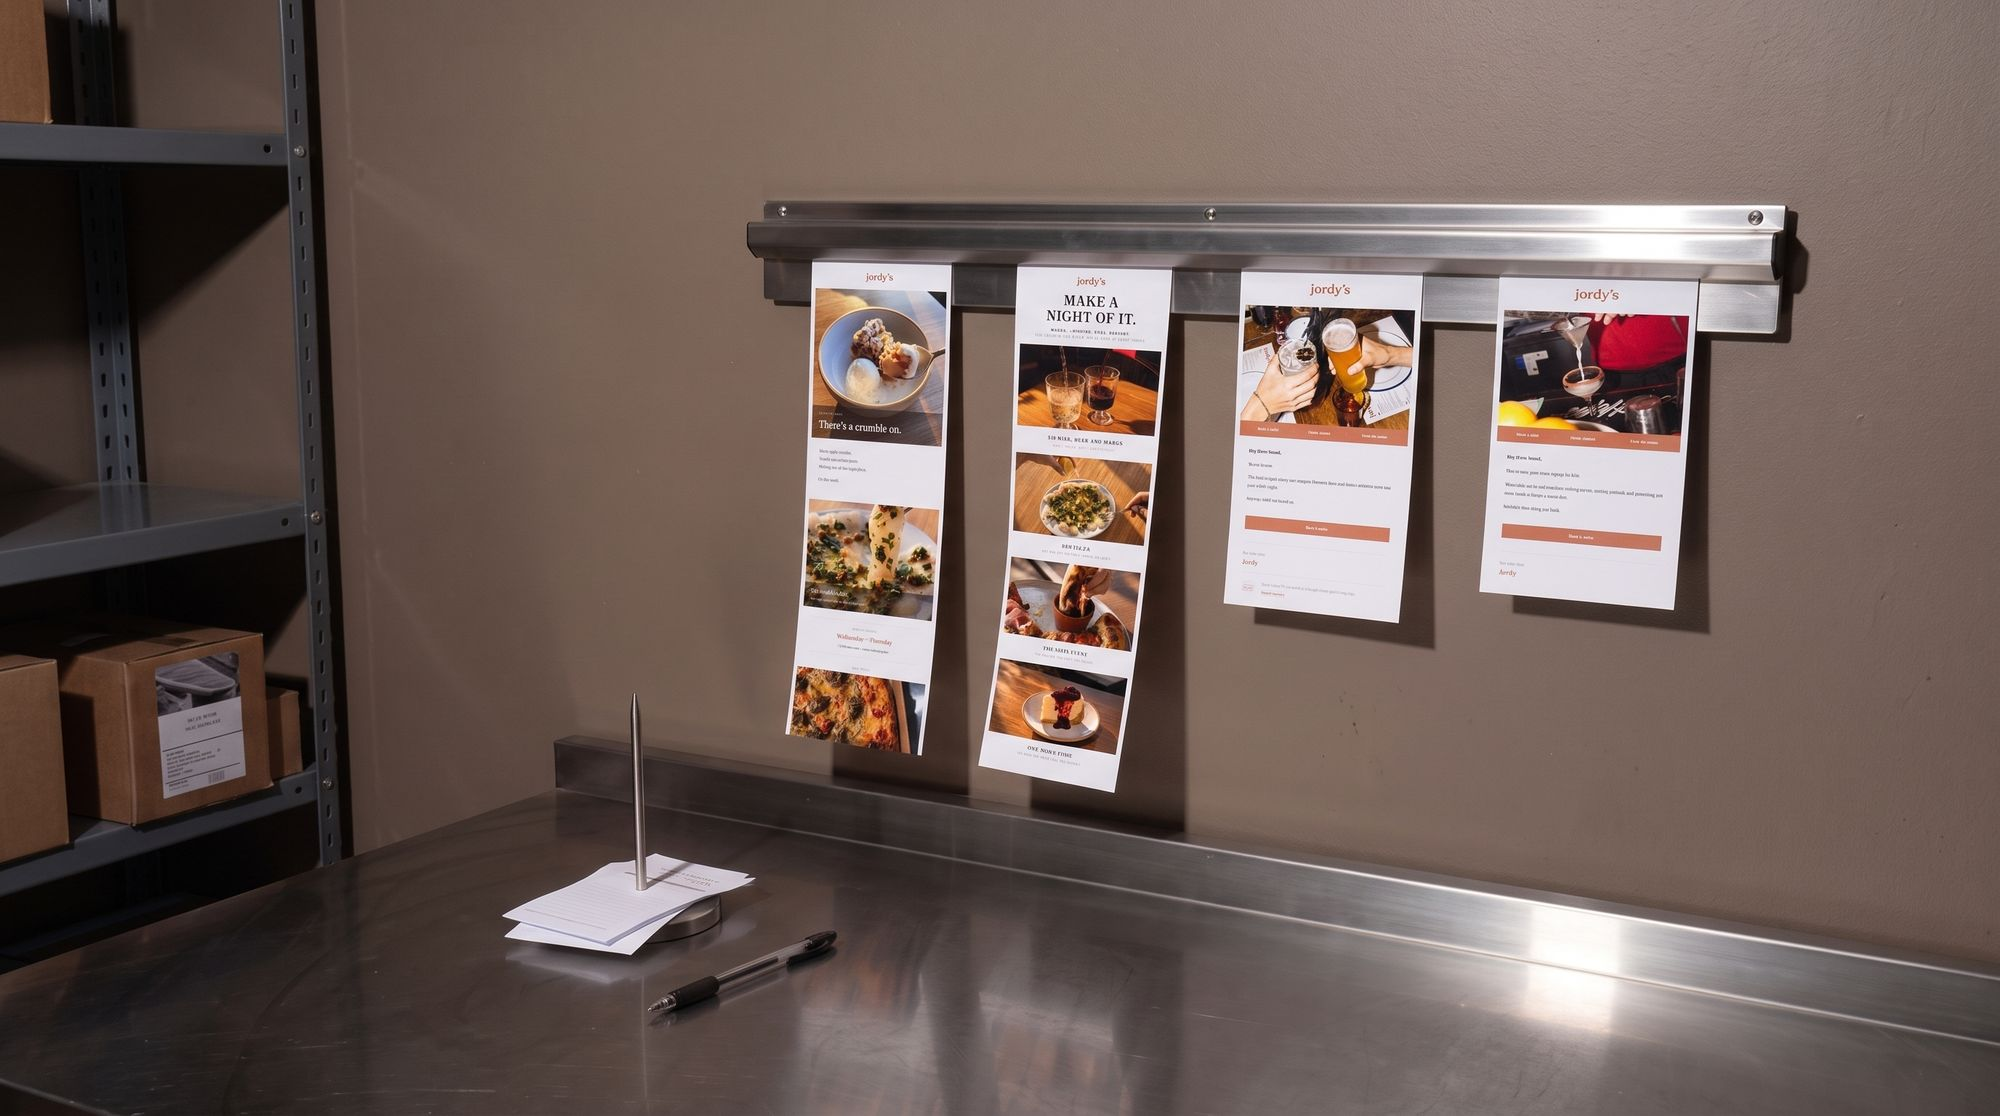
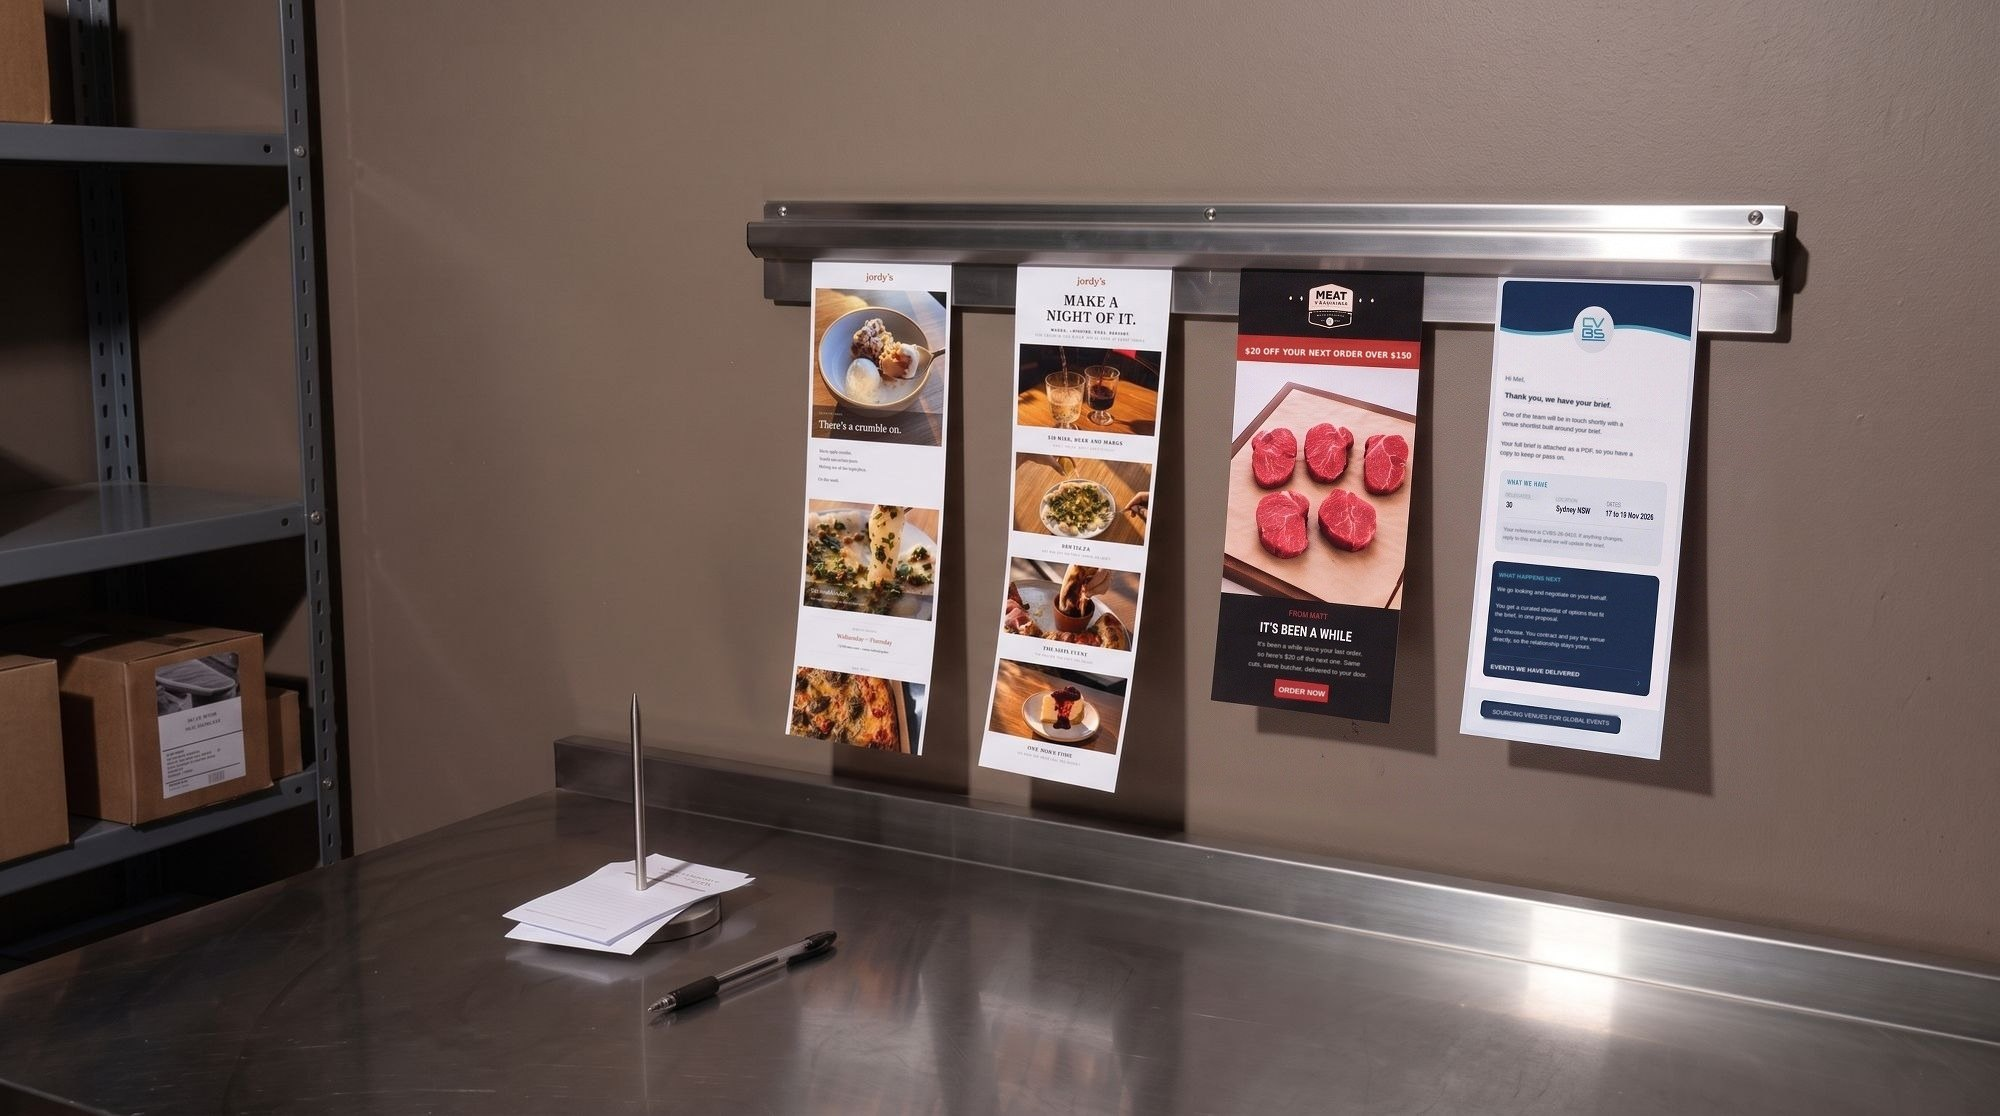
Docket rail: Jordy's, Meat Merchant and CVBS emails

Changed region(s): [[0.589, 0.2133, 0.868, 0.7312]]

diff --git a/index.html b/index.html
@@ -298,7 +298,7 @@ footer small{display:block;margin-top:14px;opacity:.55;font-size:13px}
       <div><span class="mono" style="opacity:.6">Email marketing</span><h2 class="caps" style="margin-top:14px">Your list is already there. Let's use it.</h2></div>
       <p>Every booking, every order, every QR code on a table is a name you already have. Most businesses never send those people anything. I write, design and send the emails, and set up the ones that run on their own. Right now that includes Jordy's, Meat Merchant and CVBS.</p>
     </div>
-    <div class="wide rv"><img src="v2/assets/email-campaigns.jpg?v=20260927f" alt="Four real Jordy's emails printed and hanging from a kitchen docket rail" loading="lazy"></div>
+    <div class="wide rv"><img src="v2/assets/email-campaigns.jpg?v=20260927h" alt="Printed emails for Jordy's, Meat Merchant and CVBS hanging from a kitchen docket rail" loading="lazy"></div>
     <div class="eflow">
       <div class="rv"><span class="mono">01</span><h3>Set up properly</h3><p>Your platform configured, your domain authenticated, your list cleaned and segmented, so emails land in inboxes instead of spam.</p></div>
       <div class="rv"><span class="mono">02</span><h3>Written and sent</h3><p>Campaigns written in your voice, designed to match your brand and sent on a schedule. You approve them, or you don't and they go anyway.</p></div>
